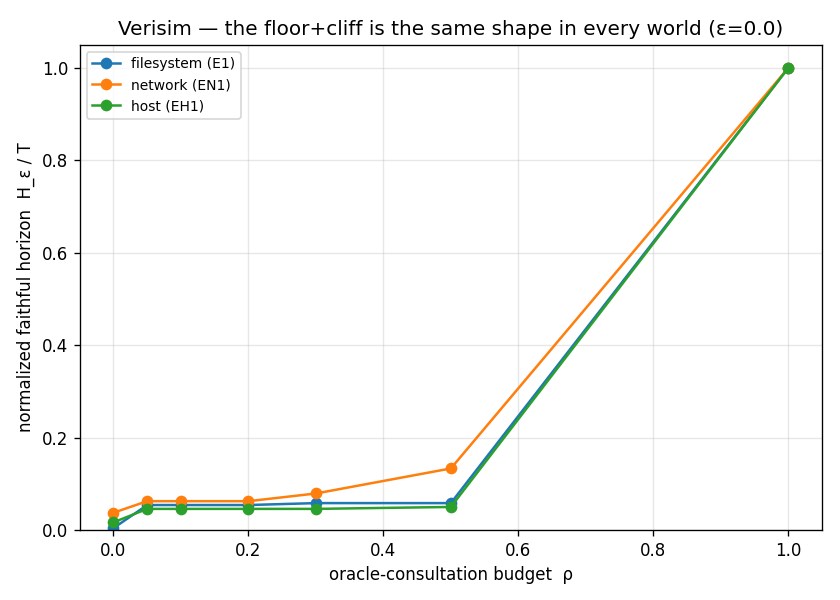
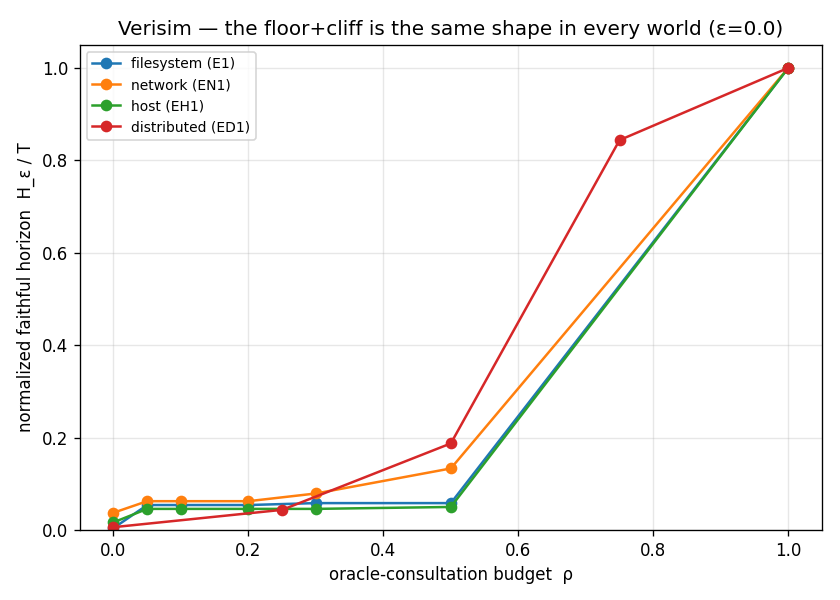
SPEC-7 / synthesis: fold the distributed world into the cross-world floor+cliff — four worlds, one curve
The cross-world synthesis (§22) was the program's headline world-agnostic claim
across three worlds (filesystem/network/host). With SPEC-7's ED1 distributed
H_ε(ρ) curve committed, add it as the fourth — and the strongest version of the
claim: the floor+cliff survives even in the one world where bit-exact global
truth is intractable (NP-complete consistency checking), so its curve is read
against a tiered, cost-bounded oracle, not a cheap exact one. The shape is
therefore not an artifact of having an exact oracle to spend.

- synthesis.world_curve() is now schema-aware: it detects the ED1 panel schema
  (a `panel` column) and reads the `panel == "curve"` rows (x=ρ, h_eps at the
  bit-exact tier), keeping one DEFAULT_WORLDS map and one reader. The other
  three worlds' standard (difficulty,epsilon,rho,mean_h) schema is unchanged.
- DEFAULT_WORLDS gains "distributed (ED1)" → figures/ed1_dist.csv; the committed
  synthesis_floor_cliff figure/CSV regenerate to four overlaid worlds (distributed
  floor 0.0063·T at ρ=0 sits in the 0.004–0.038 cluster, cliff to 1.0 at ρ=1).
- README §22 (+ intro, sibling-thesis + featured tiles) and docs/report.md
  synthesis section updated three → four worlds.
- test_synthesis: a focused panel-schema reader test; the committed-CSV overlay
  test now covers all four worlds automatically (set(DEFAULT_WORLDS)).

Gates green locally: ruff, mypy --strict (fresh cache, 208 files), pytest, wheel.

diff --git a/src/verisim/experiments/synthesis.py b/src/verisim/experiments/synthesis.py
@@ -1,19 +1,23 @@
-"""Cross-world synthesis -- the floor+cliff ``H_ε(ρ)`` across the three worlds (the headline).
+"""Cross-world synthesis -- the floor+cliff ``H_ε(ρ)`` across all four worlds (the headline).
 
 The program's most general empirical statement: the faithful-horizon-vs-consultation curve is the
 **same floor+cliff shape in every world** -- the filesystem (SPEC-2, a tree), the network (SPEC-5, a
-graph), and the host (SPEC-6, a coupled bundle) -- despite entirely different state types, oracles,
-and models. This module reads the three worlds' committed ``H_ε(ρ)`` curve CSVs (the artifacts E1 /
-EN1 / EH1 emit), normalizes each by its own horizon ceiling ``T`` (so worlds with different rollout
+graph), the host (SPEC-6, a coupled bundle), and the distributed cluster (SPEC-7, a replicated
+service under partition/crash/clock faults) -- despite entirely different state types, oracles, and
+models. This module reads the four worlds' committed ``H_ε(ρ)`` curve CSVs (the artifacts E1 / EN1 /
+EH1 / ED1 emit), normalizes each by its own horizon ceiling ``T`` (so worlds with different rollout
 lengths are comparable), averages over difficulty at a fixed tolerance ``ε``, and returns one
 normalized curve per world. Figures are produced *only* from committed records (the SPEC-2 §7.3
 discipline) -- this re-reads them, it does not re-run anything. Pure and dependency-free.
 
-The synthesis makes one figure carry the claim: if the three normalized curves overlay -- a floor
+The synthesis makes one figure carry the claim: if the four normalized curves overlay -- a floor
 across the ``ρ`` interior, then a cliff to ``H_ε/T = 1`` at ``ρ=1`` -- then "a little consultation
 does not buy a lot of horizon; you pay near-linearly for faithfulness" is a property of the
 *oracle-loop method*, not of any one world or model (the SPEC.md §0 model-agnostic-primitive claim,
-now also world-agnostic).
+now also world-agnostic). The distributed world makes it the strongest version of the claim: the
+shape survives even where bit-exact global truth is *intractable* (SPEC-7 §5, NP-complete
+consistency checking), so the floor+cliff is not an artifact of a cheap, exact oracle -- it holds
+under a tiered, cost-bounded one too.
 """
 
 from __future__ import annotations
@@ -24,11 +28,13 @@ from dataclasses import dataclass
 from pathlib import Path
 from statistics import fmean
 
-#: The committed curve CSVs, by world (filesystem E1, network EN1, host EH1).
+#: The committed curve CSVs, by world (filesystem E1, network EN1, host EH1, distributed ED1).
+#: ED1 uses the panel schema (``panel,key,x,...,h_eps,...``); :func:`world_curve` reads both.
 DEFAULT_WORLDS: dict[str, str] = {
     "filesystem (E1)": "figures/e1_curve.csv",
     "network (EN1)": "figures/en1_curve.csv",
     "host (EH1)": "figures/eh1_curve.csv",
+    "distributed (ED1)": "figures/ed1_dist.csv",
 }
 
 
@@ -50,11 +56,23 @@ CSV_HEADER = "world,rho,mean_h,ceiling,frac_h"
 
 
 def world_curve(csv_path: str | Path, epsilon: float) -> list[tuple[float, float]]:
-    """Read one world's curve CSV; return ``[(ρ, difficulty-averaged mean H_ε)]`` at tolerance ε."""
+    """Read one world's curve CSV; return ``[(ρ, difficulty-averaged mean H_ε)]`` at tolerance ε.
+
+    Two schemas are accepted. The filesystem/network/host worlds emit the *standard* curve schema
+    (``difficulty,epsilon,rho,mean_h,...``), read at the requested ``epsilon``. The distributed
+    world (ED1) emits the *panel* schema (``panel,key,x,tier,mode,h_eps,...``); its faithful
+    ``H_ε(ρ)`` curve is the ``panel == "curve"`` rows (``x`` is ``ρ``, ``h_eps`` is the horizon at
+    the bit-exact tier -- the faithful one, so ``epsilon`` does not select among them).
+    """
     by_rho: dict[float, list[float]] = {}
     with Path(csv_path).open() as handle:
-        for row in csv.DictReader(handle):
-            if abs(float(row["epsilon"]) - epsilon) < 1e-9:
+        reader = csv.DictReader(handle)
+        is_panel = reader.fieldnames is not None and "panel" in reader.fieldnames
+        for row in reader:
+            if is_panel:
+                if row["panel"] == "curve":
+                    by_rho.setdefault(float(row["x"]), []).append(float(row["h_eps"]))
+            elif abs(float(row["epsilon"]) - epsilon) < 1e-9:
                 by_rho.setdefault(float(row["rho"]), []).append(float(row["mean_h"]))
     return [(rho, fmean(vals)) for rho, vals in sorted(by_rho.items())]
 

diff --git a/tests/test_synthesis.py b/tests/test_synthesis.py
@@ -1,8 +1,8 @@
 """Cross-world synthesis tests (the paper's floor+cliff-across-worlds figure).
 
 Torch-free: the synthesis only reads committed curve CSVs and normalizes. Tests the aggregation on
-small temp CSVs (difficulty averaging, per-world normalization by the ρ=1 ceiling) and confirms the
-three committed world CSVs load and overlay.
+small temp CSVs (difficulty averaging, per-world normalization by the ρ=1 ceiling, the ED1 panel
+schema) and confirms the four committed world CSVs load and overlay.
 """
 
 from __future__ import annotations
@@ -33,6 +33,22 @@ def test_world_curve_averages_over_difficulty_at_epsilon(tmp_path):
     ])
     curve = world_curve(csv_path, epsilon=0.0)
     assert curve == [(0.0, 3.0), (1.0, 12.0)]
+
+
+def test_world_curve_reads_ed1_panel_schema(tmp_path):
+    # The distributed world (ED1) emits the panel schema; world_curve reads its `curve` rows as
+    # (x=ρ, h_eps), ignoring the h17 panel rows and the epsilon argument (the curve is the faithful
+    # bit-exact horizon, not selected by ε).
+    csv_path = tmp_path / "ed1.csv"
+    with open(csv_path, "w", newline="") as h:
+        w = csv.writer(h)
+        w.writerow(["panel", "key", "x", "tier", "mode", "h_eps", "dollars",
+                    "dollars_per_step", "ci_lo", "ci_hi"])
+        w.writerow(["curve", "rho", 0.0, "bit_exact", "gross", 0.5, "", "", 0.0, 1.0])
+        w.writerow(["curve", "rho", 1.0, "bit_exact", "gross", 10.0, "", "", 10.0, 10.0])
+        w.writerow(["h17", "gross/meta", "", "metamorphic", "gross", 16.0, 152.0, 9.3, "", ""])
+    curve = world_curve(csv_path, epsilon=0.0)
+    assert curve == [(0.0, 0.5), (1.0, 10.0)]  # only the two curve rows, h17 row ignored
 
 
 def test_cross_world_normalizes_by_each_worlds_ceiling(tmp_path):

diff --git a/README.md b/README.md
@@ -14,7 +14,7 @@
 ## Results at a glance
 
 Twenty-five committed, oracle-grounded figures — the smoke-scale bet in one screen — each detailed below, each
-with its honest negative. **Two one-figure theses frame the rest: the cross-*world* synthesis ([§22](#22-the-thesis-in-one-figure-the-floorcliff-is-the-same-in-every-world-cross-world-synthesis)) — the floor+cliff `H_ε(ρ)` is the *same shape in all three worlds* — and the cross-*proposer* synthesis ([§34](#34-the-spec-10-capstone-the-floor-is-proposer-dependent-cross-proposer-synthesis)) — whether that floor is a *resourcing artifact* depends on the proposer.** **What survives scaling is the real verdict: see [§8](#8-which-wins-survive-scaling--the-honest-mixed-verdict-spec-9).** Every number regenerates from
+with its honest negative. **Two one-figure theses frame the rest: the cross-*world* synthesis ([§22](#22-the-thesis-in-one-figure-the-floorcliff-is-the-same-in-every-world-cross-world-synthesis)) — the floor+cliff `H_ε(ρ)` is the *same shape in all four worlds* — and the cross-*proposer* synthesis ([§34](#34-the-spec-10-capstone-the-floor-is-proposer-dependent-cross-proposer-synthesis)) — whether that floor is a *resourcing artifact* depends on the proposer.** **What survives scaling is the real verdict: see [§8](#8-which-wins-survive-scaling--the-honest-mixed-verdict-spec-9).** Every number regenerates from
 config + seeds (`bash figures/reproduce.sh`).
 
 | | |
@@ -24,11 +24,11 @@ config + seeds (`bash figures/reproduce.sh`).
 | [![HS3 the scaling law with the structured graph arm — the lift is proposer-dependent](figures/horizon_graph_scaling.png)](figures/horizon_graph_scaling.png)<br>**The capacity lift is *proposer-dependent* — it does NOT reproduce for the structured arm (SPEC-10 / HS3 / H26).** Re-run the *identical* HS1 axis with the **GNN+RSSM graph arm** — the proposer that *beats* the flat arm ~6.6× on one-step delta-exact (EN4/H11) — and the verdict flips: for the graph arm capacity buys **neither** per-step accuracy **nor** horizon. `p` is **flat** (0.64 → 0.66, vs the flat arm's 0.47 → 0.82 climb) and `H_free` is **≈ 0 at every capacity** (η ≈ 0) — the floor+cliff in its purest, capacity-invariant form. So **HS1's lift was the flat arm's specific p-vs-capacity climb crossing the self-stabilization threshold, not a universal loop property.** The graph arm makes *near-but-not-exact* predictions (an ε-sweep gives `H_free`=0 up to ε=0.1, only 4–6 steps at ε=0.2) — small but ubiquitous errors the flat arm's self-stabilizing rollout avoided. Honest caveat: the graph trainer plateaus at p≈0.66 < the flat arm's 0.82, and the arm's *flat* p says it is **data-limited, not capacity-limited** (its lever is data, the HS1.2 reading). Consistent with EN7/H22: the loop governs the shape, the proposer's competence sets whether it escapes the floor. | [![EN4 graph beats flat per-step](figures/en4_graph_vs_flat.png)](figures/en4_graph_vs_flat.png)<br>**Why HS3 is the sharp foil (EN4 / H11).** The graph arm *wins* on the one-step metric a normal paper reports — +16.5 pts token accuracy, +30.6 pts delta-exact over the flat arm. HS3 is the catch the oracle exposes: that per-step win **does not** convert to free-running horizon (`H_free`≈0), and capacity doesn't fix it. The metric that wins (delta-exact) and the metric that matters (exact free-running horizon) come apart — exactly the proxy/truth divergence the whole program is built to measure. |
 | [![HS3 incr 2 the graph data cross-axis — the structured floor is not data starvation](figures/horizon_graph_data_scaling.png)](figures/horizon_graph_data_scaling.png)<br>**The structured floor is *not* data starvation — a genuine ceiling (SPEC-10 / HS3 incr 2 / H26).** HS3 left a confound: the graph arm's flat `p` looks *data*-limited, so — exactly as HS1.2 was for the flat arm — hold graph capacity fixed and sweep the coverage set 960 → 9,600 transitions. A **10× data increase does NOT lift `H_free`** (≈0 throughout) or `p` (flat ~0.6) — the *opposite* of the flat arm, whose HS1.2 floor *recovered* with data (7.7 → 16.2). And **η stays below 1** (0.00–0.52): unlike the flat arm (η>1, self-stabilizing), the graph arm free-runs **shorter** than its i.i.d. prediction — its near-but-not-exact errors **compound**, the genuine compounding wall H26 pre-registered. **Net across HS3: the structured floor moves with *neither* capacity nor data — the first floor in the program that does not dissolve into resourcing.** So "the floor+cliff is a resourcing story" is itself proposer-dependent (under-resourcing for the flat arm; a genuine ceiling for the structured one). Honest caveat: the graph trainer plateaus at p≈0.6 and p doesn't climb with data, so the binding constraint is plausibly the trainer/representation, not data per se. | [![HS1.2 flat-arm data recovery](figures/horizon_data_scaling.png)](figures/horizon_data_scaling.png)<br>**The contrast that makes HS3 incr 2 sharp (HS1.2 / H26).** For the **flat** arm, the same data cross-axis was a *recovery*: at fixed `xl` capacity, feeding 2× the data lifted `H_free` 13.9 → 16.2 and ood η from 0.97 back to 1.90 — the floor *was* data starvation (Chinchilla). The structured arm (left) shows the opposite on the identical axis: data buys nothing. Same experiment, two proposers, opposite verdicts — which is exactly why "is the floor a resourcing artifact?" has no single answer: it depends on the proposer. |
 | [![HS3 incr 3 the world-size cross-axis — the structured ceiling is world-size-invariant](figures/horizon_graph_world_scaling.png)](figures/horizon_graph_world_scaling.png)<br>**The structured ceiling is *world-size-invariant* — it survives the last axis too (SPEC-10 / HS3 incr 3 / H26).** The graph arm exists *for* its inductive bias over network structure, which has **more** to exploit as the world grows — so a bigger world is where it could finally pull off the floor. Hold graph capacity fixed and sweep the world over SPEC-9's `O(N²)` host-count axis (5 → 40 hosts): `H_free` stays **0 at every world size** (8× range, tight zero CIs), η = 0 throughout, and `p` actually **degrades** (0.66 → 0.59) as the world gets harder per step. **This completes the HS3 sweep: the structured arm's exact free-running floor is pinned at 0 across *all three* axes — capacity, data, AND world size** — a genuine compounding ceiling, not an artifact of any single axis. Where the flat arm's floor dissolved into a resourcing story on every axis (HS1/HS1.2/HS2), the structured arm's moves on **none** of them. Honest caveat: the graph trainer plateaus at p≈0.6 and p falls with world size, so the binding constraint is plausibly the trainer/representation; this is the strict ε≤0.1 tolerance. | [![EN7 model-invariance](figures/en7_invariance.png)](figures/en7_invariance.png)<br>**Why the two verdicts coexist (EN7 / H22).** The loop governs the *shape* of `H_ε(ρ)` (floor + cliff, no knee) across proposers; what differs is the *floor height* and whether a given proposer ever escapes it. The flat arm's per-step accuracy climbs high enough (with resourcing) that its rollout self-stabilizes off the floor; the graph arm's plateaus at ~0.6 and never does — so HS1's resourcing story and HS3's genuine ceiling are two faces of the same H22 fact: verification is the invariant, the proposer's competence sets the floor it lives on. |
-| [![SPEC-10 capstone — the floor is proposer-dependent](figures/horizon_synthesis.png)](figures/horizon_synthesis.png)<br>**The SPEC-10 capstone — the floor is *proposer-dependent* (cross-proposer synthesis).** One figure for the whole scaling arc, read straight off the two committed capacity sweeps (figures-from-records — it re-runs nothing). On the **same** capacity axis the **flat** transformer's free-running horizon **lifts ~9×** (1.75 → 15.8 steps) and its floor dissolves into a resourcing story across capacity, data, and world size (HS1/HS1.2/HS2); the **structured** GNN+RSSM graph arm — which *beats* the flat arm on one-step delta-exact (EN4) — stays **pinned at ≈ 0** across all three axes (HS3). So the program's standing question, *"is the floor+cliff a resourcing artifact?"*, has **no single answer: it depends on the proposer** — under-resourcing for one, a genuine compounding ceiling for the other. A per-step *winner* that is the long-horizon *loser*, and vice versa — the proxy/truth divergence only the exact free oracle can expose. | [![cross-world synthesis](figures/synthesis_floor_cliff.png)](figures/synthesis_floor_cliff.png)<br>**Its sibling thesis (cross-world synthesis, [§22](#22-the-thesis-in-one-figure-the-floorcliff-is-the-same-in-every-world-cross-world-synthesis)).** The other one-figure claim: normalize each world's `H_ε(ρ)` by its ceiling and the filesystem, network, and host worlds trace **the same floor+cliff**. Read together, the two syntheses bracket the program's generality: the curve's *shape* is world- and model-invariant (the loop's), while whether its `ρ=0` *floor height* is a resourcing artifact is proposer-dependent (the model's). Verification is the invariant; the proposer sets the floor it lives on. |
+| [![SPEC-10 capstone — the floor is proposer-dependent](figures/horizon_synthesis.png)](figures/horizon_synthesis.png)<br>**The SPEC-10 capstone — the floor is *proposer-dependent* (cross-proposer synthesis).** One figure for the whole scaling arc, read straight off the two committed capacity sweeps (figures-from-records — it re-runs nothing). On the **same** capacity axis the **flat** transformer's free-running horizon **lifts ~9×** (1.75 → 15.8 steps) and its floor dissolves into a resourcing story across capacity, data, and world size (HS1/HS1.2/HS2); the **structured** GNN+RSSM graph arm — which *beats* the flat arm on one-step delta-exact (EN4) — stays **pinned at ≈ 0** across all three axes (HS3). So the program's standing question, *"is the floor+cliff a resourcing artifact?"*, has **no single answer: it depends on the proposer** — under-resourcing for one, a genuine compounding ceiling for the other. A per-step *winner* that is the long-horizon *loser*, and vice versa — the proxy/truth divergence only the exact free oracle can expose. | [![cross-world synthesis](figures/synthesis_floor_cliff.png)](figures/synthesis_floor_cliff.png)<br>**Its sibling thesis (cross-world synthesis, [§22](#22-the-thesis-in-one-figure-the-floorcliff-is-the-same-in-every-world-cross-world-synthesis)).** The other one-figure claim: normalize each world's `H_ε(ρ)` by its ceiling and the filesystem, network, host, and distributed worlds trace **the same floor+cliff** — even the one (distributed) whose oracle is intractable. Read together, the two syntheses bracket the program's generality: the curve's *shape* is world- and model-invariant (the loop's), while whether its `ρ=0` *floor height* is a resourcing artifact is proposer-dependent (the model's). Verification is the invariant; the proposer sets the floor it lives on. |
 
 | | |
 |---|---|
-| [![cross-world synthesis](figures/synthesis_floor_cliff.png)](figures/synthesis_floor_cliff.png)<br>**The thesis in one figure (cross-world synthesis).** Normalize each world's faithful horizon by its own ceiling and overlay: the filesystem (a tree), the network (a graph), and the host (a coupled bundle) trace **the same floor+cliff** — a near-zero floor across the `ρ` interior, then a cliff to full horizon only at `ρ=1`. Three different state types, oracles, and models; one curve. "A little consultation doesn't buy a lot of horizon; you pay near-linearly for faithfulness" is a property of the *oracle-loop method*, not any one world. | [![ED1 the distributed prime directive + the tiered-oracle H17 measurement](figures/ed1_dist.png)](figures/ed1_dist.png)<br>**The distributed world debuts — and the tiered oracle is a *conditional* lever (SPEC-7 / ED1 / H17).** The fourth world (replicated services across machines) is the first where the bit-exact global oracle is **intractable**, so it can't be spent every step — the payload is a *tiered* oracle (metamorphic ↔ cycle ↔ symbolic ↔ bit-exact) and the loop chooses *which tier* (`π_w`) to pay. **Left:** the distributed `H_ε(ρ)` is the *same floor→cliff* as every prior world (0.2 → 40). **Right (H17):** **oracle-$ per faithful step** by tier × error class — and the answer is sharper than "cheap wins": it **depends where the model's errors fall**. For **gross** (out-of-vocab) errors the cheap metamorphic tier buys faithful horizon at **$9.4/step vs bit-exact's $16**; for **subtle** (in-flight) errors the cheap tiers miss the drift entirely (H≈0, **$848/step**) and only full bit-exact truth is efficient. A real, conditional lever — the measurement the oracle-free distributed-systems field cannot make. (Apparatus on a controlled-noise proposer; the learned `M_θ` supplies the real distribution next.) |
+| [![cross-world synthesis](figures/synthesis_floor_cliff.png)](figures/synthesis_floor_cliff.png)<br>**The thesis in one figure (cross-world synthesis).** Normalize each world's faithful horizon by its own ceiling and overlay: the filesystem (a tree), the network (a graph), the host (a coupled bundle), and the distributed cluster (replicated services under faults) trace **the same floor+cliff** — a near-zero floor across the `ρ` interior, then a cliff to full horizon only at `ρ=1`. Four different state types, oracles, and models; one curve — and the fourth's oracle is only *tiered*, not exact, so the shape isn't an artifact of a cheap exact oracle. "A little consultation doesn't buy a lot of horizon; you pay near-linearly for faithfulness" is a property of the *oracle-loop method*, not any one world. | [![ED1 the distributed prime directive + the tiered-oracle H17 measurement](figures/ed1_dist.png)](figures/ed1_dist.png)<br>**The distributed world debuts — and the tiered oracle is a *conditional* lever (SPEC-7 / ED1 / H17).** The fourth world (replicated services across machines) is the first where the bit-exact global oracle is **intractable**, so it can't be spent every step — the payload is a *tiered* oracle (metamorphic ↔ cycle ↔ symbolic ↔ bit-exact) and the loop chooses *which tier* (`π_w`) to pay. **Left:** the distributed `H_ε(ρ)` is the *same floor→cliff* as every prior world (0.2 → 40). **Right (H17):** **oracle-$ per faithful step** by tier × error class — and the answer is sharper than "cheap wins": it **depends where the model's errors fall**. For **gross** (out-of-vocab) errors the cheap metamorphic tier buys faithful horizon at **$9.4/step vs bit-exact's $16**; for **subtle** (in-flight) errors the cheap tiers miss the drift entirely (H≈0, **$848/step**) and only full bit-exact truth is efficient. A real, conditional lever — the measurement the oracle-free distributed-systems field cannot make. (Apparatus on a controlled-noise proposer; the learned `M_θ` supplies the real distribution next.) |
 | [![EH8 privilege denial recall](figures/eh8_privilege.png)](figures/eh8_privilege.png)<br>**Aggregate faithfulness hides a security-critical denial gap (host EH8).** On a denial-heavy workload, overall privilege-faithfulness looks high (0.91 flat, 0.94 factored) — but that is the easy successes. The defensively-critical number is **denied recall** (does the model predict failures when truth fails?): the flat arm scores **0.000** (it *never* predicts an EPERM/EBADF — it would tell a defender every blocked action succeeded), the factored arm only 0.286. Structure helps, but predicting *denials* is the open security gap. | [![EH6 two-oracle H12](figures/eh6_two_oracle.png)](figures/eh6_two_oracle.png)<br>**A cheap security oracle is redundant but decision-sufficient (host EH6 / H12).** A symbolic privilege invariant ("no non-root process holds `/passwd`") vs the full state oracle: it catches **nothing** the full oracle misses (non-redundant rate **0**, by construction) — but in **95%** of the steps where the model's *full* prediction is wrong it still gets the **security verdict right**, at ~**3×** lower consult cost. Redundant for verification; cheaper and decision-sufficient for the question a defender asks. The host H12. |
 | [![EH9 denial-weighted objective](figures/eh9_denial_weighted.png)](figures/eh9_denial_weighted.png)<br>**The free oracle closes the EH8 denial gap — data balance, not architecture (host EH9).** EH8's blindness to failures is largely a *data-balance artifact the oracle can label away for free*. Just adding the denial-carrying driver to training lifts flat denied recall **0.000→0.333** and factored **0.286→0.952**; then **oversampling** denials lifts flat further to **0.762** at 4× — at **no specificity cost** (it never cries wolf, ~0.98–1.0 throughout). But too much backfires (flat falls to 0.524 at 16×): the flat arm needs a *tuned* factor, while the structured arm saturates to perfect recall and is robust. | [![EH7 host model-invariance](figures/eh7_invariance.png)](figures/eh7_invariance.png)<br>**The floor+cliff is the loop's, not the model's — even in the hardest world (host EH7 / H22).** Swap the proposer (untrained, biased, trained) under the composed host oracle and the `H_ε(ρ)` shape is invariant: a near-zero floor across the `ρ` interior, the cliff only at `ρ=1`. The curve is a property of the verify-correct method, not any one `M_θ`. |
 | [![EH-stream experience stream vs batch](figures/eh_stream.png)](figures/eh_stream.png)<br>**The stream doesn't beat the batch — but replay is what saves it, and the plasticity probe says why (host EH-stream / H15 / HW-4).** At *equal compute*, the Era-of-Experience stream loses to the offline batch (one-step exact 0.47 vs 0.54, free `H_ε` 1.7 vs 4.0) — the manifesto's promise does not survive contact with the oracle at this scale (H15 negative). But **experience replay is decisively load-bearing**: it rescues the stream from collapse (0.47 vs the no-replay 0.10), and the **plasticity probe localizes why** — the no-replay stream *loses plasticity* (0.77 vs 0.95), replay keeps it high. The §2.5 "replay fixes forgetting *and* plasticity loss" lesson, grounded. | [![EH6 counterfactual H16](figures/eh6_counterfactual.png)](figures/eh6_counterfactual.png)<br>**Counterfactual replay is just more data for plain supervision — the same null the network found (host EH6 / H16).** The total oracle re-runs any process tree with one syscall changed, for free. Training on those counterfactual branches *does* beat the base trajectory on held-out intervention-exactness (0.46 vs 0.34) — but it **loses to a matched-volume control** of plain trajectory data (0.59). So the lift is **data volume, not counterfactual structure**: for next-state supervision a counterfactual is just another labeled transition. H16 is a null beyond volume — now confirmed *world-agnostic* (it matched the network's EN6/H5). |
@@ -608,33 +608,39 @@ across the ρ interior, then the cliff to `H_ε=T` only at ρ=1. The proposer se
 shared shape survives across proposers of such different competence, in the world with the most
 coupling (H13) and the only one with concurrency (H14), is the strongest evidence the program has that
 the oracle-in-the-loop method is **model-agnostic** — exactly what makes the contribution a *method*,
-not a model. The same floor+cliff now appears in all three worlds (filesystem K4, network EN1, host
-EH1) and across every proposer in each — the claim's most general statement.
+not a model. The same floor+cliff now appears in all four worlds (filesystem K4, network EN1, host
+EH1, distributed ED1) and across every proposer in each — the claim's most general statement.
 
 ### 22. The thesis in one figure: the floor+cliff is the same in every world (cross-world synthesis)
 
 If the claim is that the oracle-in-the-loop tradeoff is a property of the *method*, the cleanest test
-is to put all three worlds on one axis. Each world's `H_ε(ρ)` curve is normalized by its own horizon
-ceiling `T` (so a tree, a graph, and a coupled bundle with different rollout lengths are comparable),
-difficulty-averaged, and overlaid:
+is to put all four worlds on one axis. Each world's `H_ε(ρ)` curve is normalized by its own horizon
+ceiling `T` (so a tree, a graph, a coupled bundle, and a replicated cluster with different rollout
+lengths are comparable), difficulty-averaged, and overlaid:
 
-![Cross-world synthesis: normalized H_ε/T vs ρ for filesystem, network, and host — one shape](figures/synthesis_floor_cliff.png)
+![Cross-world synthesis: normalized H_ε/T vs ρ for filesystem, network, host, and distributed — one shape](figures/synthesis_floor_cliff.png)
 
 | world | state type | floor `H_ε/T` at ρ=0 | ρ=1 |
 |---|---|---|---|
 | filesystem (E1) | a tree | 0.00 | 1.0 |
 | network (EN1) | a typed graph | 0.04 | 1.0 |
 | host (EH1) | a coupled bundle | 0.02 | 1.0 |
+| distributed (ED1) | a replicated cluster under faults | 0.01 | 1.0 |
 
-**Three worlds, one curve.** Despite entirely different state representations, oracles, grammars, and
+**Four worlds, one curve.** Despite entirely different state representations, oracles, grammars, and
 models, the normalized faithful horizon traces the same **floor + cliff**: a near-zero floor across the
 whole `ρ` interior, then a steep climb to full horizon only as `ρ→1`. This is the program's thesis made
 visual — *a little consultation does not buy a lot of horizon; faithfulness is paid for near-linearly
 in oracle calls* — and it is a property of the **oracle-loop method**, not of any one world or model.
-Combined with the model-invariance result (§21, the shape is constant across proposers *within* each
-world), the floor+cliff is now both **model-agnostic and world-agnostic** — the strongest statement the
-smoke-scale evidence supports. (Honest scope: same `T=24`, same small models; the *shape* is the robust
-claim, not the floor's exact height — and "what survives scaling" remains the open question, [§8](#8-which-wins-survive-scaling--the-honest-mixed-verdict-spec-9).)
+The fourth world (SPEC-7, the distributed cluster) makes it the *strongest* version of the claim: it is
+the one world where bit-exact global truth is **intractable** (SPEC-7 §5, NP-complete consistency
+checking), so its curve is measured against a **tiered, cost-bounded** oracle (ED1, the `panel == curve`
+rows at the bit-exact tier) rather than a cheap exact one — the floor+cliff is therefore not an artifact
+of having an exact oracle to spend. Combined with the model-invariance result (§21, the shape is
+constant across proposers *within* each world), the floor+cliff is now both **model-agnostic and
+world-agnostic** — the strongest statement the smoke-scale evidence supports. (Honest scope: same small
+models; the *shape* is the robust claim, not the floor's exact height — and "what survives scaling"
+remains the open question, [§8](#8-which-wins-survive-scaling--the-honest-mixed-verdict-spec-9).)
 
 ### 23. Concurrency's cost scales with concurrency's width (host EH-H14-scale)
 